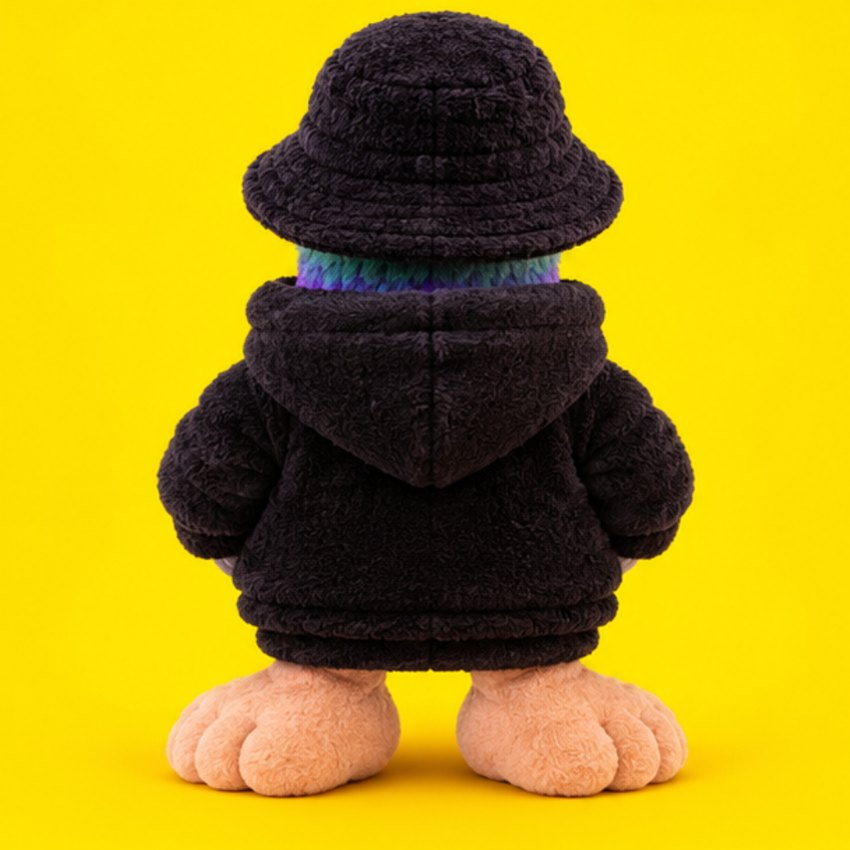
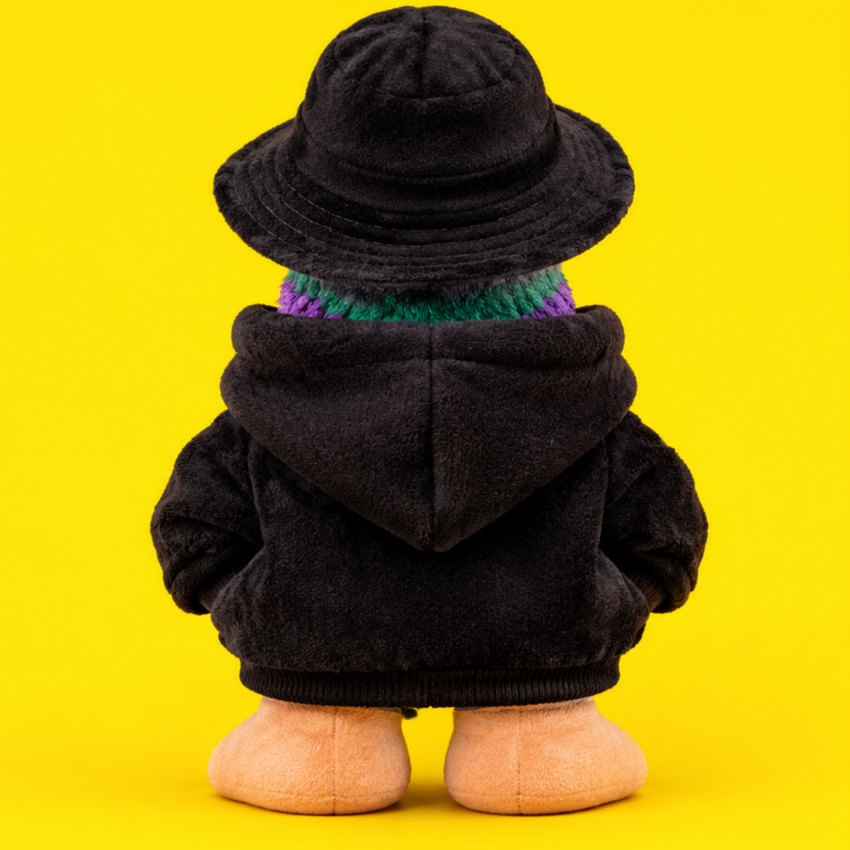
Gallery: new back view (heels to camera) and sharp feet close-up
Claude-Session: https://claude.ai/code/session_013ZCSvbXNmQ8KXGQEXenLLm

Changed region(s): [[0.1529, 0.0, 0.8565, 0.9788], [0.4282, 0.52, 0.5506, 0.6424]]

diff --git a/index.html b/index.html
@@ -78,7 +78,7 @@ form{max-width:540px}
 .main{position:relative;background:#fff;border:4px solid var(--ink);border-radius:24px;padding:10px;box-shadow:10px 10px 0 var(--ink)}
 .main img{display:block;width:100%;height:auto;aspect-ratio:1/1;object-fit:cover;border-radius:14px}
 .main figcaption{position:absolute;left:22px;bottom:22px;background:var(--ink);color:var(--y);font:400 16px "Luckiest Guy",sans-serif;letter-spacing:.04em;padding:6px 12px;border-radius:999px}
-.thumbs{display:grid;grid-template-columns:repeat(2,minmax(0,1fr));gap:14px}
+.thumbs{display:grid;grid-template-columns:repeat(3,minmax(0,1fr));gap:12px}
 .thumbs button{padding:0;border:3px solid var(--ink);border-radius:16px;overflow:hidden;background:#fff;cursor:pointer;box-shadow:4px 4px 0 var(--ink);position:relative}
 .thumbs button[aria-pressed=true]{outline:4px solid var(--red);outline-offset:2px}
 .thumbs img{display:block;width:100%;height:auto;aspect-ratio:1/1;object-fit:cover}
@@ -204,7 +204,9 @@ footer a{color:var(--y);font-weight:900;text-decoration:none;margin-left:14px}
         <button type="button" aria-pressed="true" data-src="pidge-full.jpg" data-cap="Full fit"><img src="pidge-full.jpg" alt="Full body front view" loading="lazy"><span>Full fit</span></button>
         <button type="button" aria-pressed="false" data-src="pidge-34.jpg" data-cap="3/4 view"><img src="pidge-34.jpg" alt="Three-quarter view" loading="lazy"><span>3/4 view</span></button>
         <button type="button" aria-pressed="false" data-src="pidge-side.jpg" data-cap="Side"><img src="pidge-side.jpg" alt="Side profile" loading="lazy"><span>Side</span></button>
+        <button type="button" aria-pressed="false" data-src="pidge-back.jpg" data-cap="Back"><img src="pidge-back.jpg" alt="Back view: hat, hood and heels" loading="lazy"><span>Back</span></button>
         <button type="button" aria-pressed="false" data-src="pidge-closeup.jpg" data-cap="The stare"><img src="pidge-closeup.jpg" alt="Face, chain and iced feather close-up" loading="lazy"><span>The stare</span></button>
+        <button type="button" aria-pressed="false" data-src="pidge-feet.jpg" data-cap="The feet"><img src="pidge-feet.jpg" alt="Big plush feet close-up" loading="lazy"><span>The feet</span></button>
       </div>
       <p class="note">Concept renders. Real sample photos land here before the drop.</p>
     </div>
